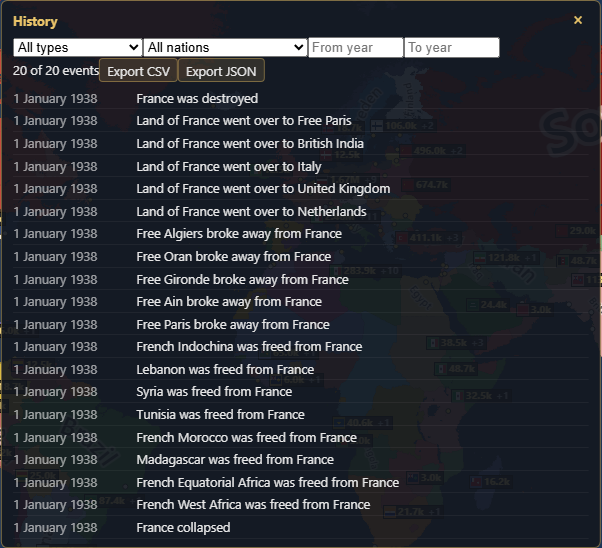
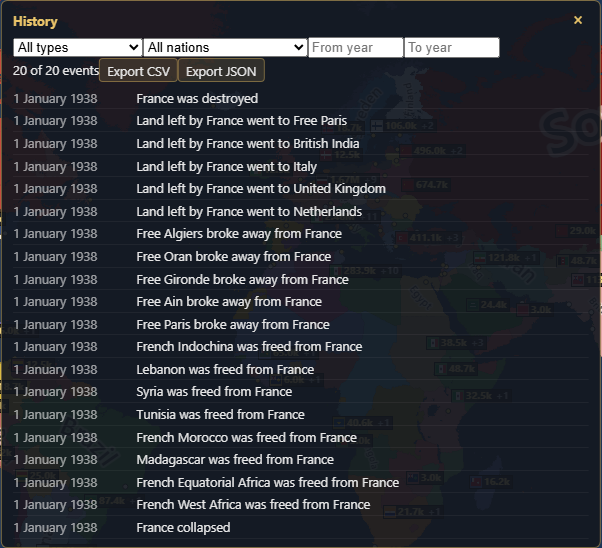
PLAN 3.12b2: land that goes over has two sentences and one row an hour (ADR-210)
"Land of X went over to Y" was one sentence for land that rose and went
back to its core nation and for what a dead nation left, with a row for
every area of a month. The worker now tells the two from the log (a
death of the holder in the same hour, read before the rows) and leaves
out a LandCeded with the tick, a and b of an earlier one.

Ten years of seeds 1, 2 and 3: 252, 293 and 354 events as 216, 252 and
290 rows. No state changed: the pin is unmoved.

Claude-Session: https://claude.ai/code/session_01LqAeMMuHgtMHVk2ZeZyuK6

Changed region(s): [[0.2691, 0.1861, 0.6578, 0.4033]]

diff --git a/src/worker/historyRows.ts b/src/worker/historyRows.ts
@@ -8,6 +8,12 @@
  * holder it takes land from, before its `NationRevived`) and for rebels that an area next to them
  * rises to: "Turkey broke away from Free Bursa" was the second. Told from the log alone: the
  * state is not asked, so a game saved before reads the same.
+ *
+ * `LandCeded` is two things (PLAN 3.12b2): land that rose and went back to its core nation, whose
+ * holder lives, and what a nation that died in that hour left ('left'). Its death is told before
+ * the land by a collapse and an annexation and after it by `eliminateNation`, so the deaths are
+ * read first. The rows of one hour with the same a and b are one row, the first: they are one
+ * month's revolts, an area each, and a death's land given at more than one step of it.
  */
 import { EventKind } from '../shared/events';
 import { HISTORY_ROLES, type HistoryAs, type HistoryRole, type HistoryRow } from '../shared/history';
@@ -16,6 +22,9 @@ import type { World } from '../sim/world';
 
 /** More than any nation id: a tick and a nation as one key. */
 const NATION_KEY = 65536;
+
+/** The kinds that tell a nation's death (a = the dead). */
+const DEATHS: ReadonlySet<number> = new Set([EventKind.NationEliminated, EventKind.NationCollapsed, EventKind.NationAnnexed]);
 
 /**
  * `nationName` gives a nation's name (an i18n key or '=' + literal), `cityName` a city row's
@@ -43,6 +52,12 @@ export function historyRows(world: World, nationName: (id: number) => string, ci
   /** tick * NATION_KEY + nation of every `NationRevived`: it follows the revolts of its hour. */
   const revived = new Set<number>();
   for (let i = 0; i < rows.length; i += HISTORY_STRIDE) if (rows[i + 1] === EventKind.NationRevived) revived.add(rows[i]! * NATION_KEY + rows[i + 2]!);
+  /** tick * NATION_KEY + nation of every death. */
+  const died = new Set<number>();
+  for (let i = 0; i < rows.length; i += HISTORY_STRIDE) if (DEATHS.has(rows[i + 1]!)) died.add(rows[i]! * NATION_KEY + rows[i + 2]!);
+  /** The (a, b) of the `LandCeded` rows of the hour `cededAt`, as a * NATION_KEY + b. */
+  const ceded = new Set<number>();
+  let cededAt = -1;
   /** The nations a revolt founded or brought back that have not died since. */
   const risen = new Set<number>();
   const revoltAs = (tick: number, a: number): HistoryAs | undefined => {
@@ -53,12 +68,18 @@ export function historyRows(world: World, nationName: (id: number) => string, ci
   const out: HistoryRow[] = [];
   for (let i = 0; i < rows.length; i += HISTORY_STRIDE) {
     const [tick, kind, a, b, x, y] = [rows[i]!, rows[i + 1]!, rows[i + 2]!, rows[i + 3]!, rows[i + 4]!, rows[i + 5]!];
+    if (kind === EventKind.LandCeded) {
+      if (tick !== cededAt) ceded.clear();
+      cededAt = tick;
+      if (ceded.has(a * NATION_KEY + b)) continue;
+      ceded.add(a * NATION_KEY + b);
+    }
     const [ra, rb] = HISTORY_ROLES[kind] ?? ['number', 'number'];
     if (kind === EventKind.MajorBattleStarted) battleCity.set(a, city(b));
     const al = alliances.get(ra === 'alliance' ? a : rb === 'alliance' ? b : 0);
     const row: HistoryRow = { tick, kind, a, b, x: Number.isNaN(x) ? null : x, y: Number.isNaN(y) ? null : y, an: name(ra, a), bn: name(rb, b), of: al ? nation(al.founder) : '' };
     if (kind === EventKind.NationEliminated) risen.delete(a);
-    const as = kind === EventKind.RevoltSpawned ? revoltAs(tick, a) : undefined;
+    const as = kind === EventKind.RevoltSpawned ? revoltAs(tick, a) : kind === EventKind.LandCeded && died.has(tick * NATION_KEY + b) ? 'left' : undefined;
     if (as) row.as = as;
     out.push(row);
   }

diff --git a/tests/unit/history.test.ts b/tests/unit/history.test.ts
@@ -176,6 +176,44 @@ describe('history rows name what they are of (PLAN 3.12a)', () => {
     expect(rows.map(historyText).slice(3, 6)).toEqual(['N2 took back land held by N3', 'N2 took back land held by N1', 'N2 returned']);
   });
 
+  // PLAN 3.12b2: 450 of the critic's 2,395 rows read "Land of X went over to Y".
+  it('land that goes over went back to its core nation, or was left by a nation that died', () => {
+    const ceded = (as?: HistoryRow['as']): HistoryRow => ({ ...row(EventKind.LandCeded, 'nation.POL', 'nation.GER'), ...(as ? { as } : {}) });
+    expect(historyText(ceded())).toBe('Land held by Germany rose and went back to Poland');
+    expect(historyText(ceded('left'))).toBe('Land left by Germany went to Poland');
+  });
+
+  it('the rows of a log: land left by the dead, whichever side of it the death is told, and one row an hour for two nations', () => {
+    const s = new Sim({ scenario: 'toy', seed: 1 });
+    const h = s.world.history;
+    const [A, B, C, D] = [1, 2, s.world.nations.create(), s.world.nations.create()]; // the toy world has two
+    h.record(10, EventKind.LandCeded, A, B, 1, 1); // three areas rise in one month: two go back to A,
+    h.record(10, EventKind.LandCeded, C, B, 2, 2); // one to C,
+    h.record(10, EventKind.LandCeded, A, B, 3, 3);
+    h.record(10, EventKind.LandCeded, B, A, 4, 4); // and one of A's to B: not the same two
+    h.record(20, EventKind.LandCeded, A, B, 5, 5); // a later hour: a row again
+    h.record(30, EventKind.NationCollapsed, B, 0, NaN, NaN); // a collapse: told before the land,
+    h.record(30, EventKind.LandCeded, A, B, 6, 6);
+    h.record(30, EventKind.LandCeded, A, B, 7, 7); // twice (the stray cells, then what A occupied)
+    h.record(30, EventKind.NationEliminated, B, 0, NaN, NaN);
+    h.record(40, EventKind.LandCeded, A, C, 8, 8); // a death by itself: told after the land
+    h.record(40, EventKind.NationEliminated, C, 0, NaN, NaN);
+    h.record(50, EventKind.NationAnnexed, D, A, NaN, NaN); // an annexation
+    h.record(50, EventKind.LandCeded, B, D, 9, 9);
+    h.record(50, EventKind.NationEliminated, D, 0, NaN, NaN);
+    h.record(60, EventKind.LandCeded, A, B, 10, 10); // the dead of an earlier hour: B lives again
+    const rows = historyRows(s.world, (n) => `=N${n}`, () => '');
+    const ceded = rows.filter((r) => r.kind === EventKind.LandCeded);
+    expect(ceded.map((r) => [r.tick, r.a, r.b, r.x, r.as])).toEqual([
+      [10, A, B, 1, undefined], [10, C, B, 2, undefined], [10, B, A, 4, undefined], [20, A, B, 5, undefined],
+      [30, A, B, 6, 'left'], [40, A, C, 8, 'left'], [50, B, D, 9, 'left'], [60, A, B, 10, undefined],
+    ]);
+    // No other row is folded or is `as` anything: the two of B's death are both there.
+    expect(rows.length).toBe(h.rows.length / HISTORY_STRIDE - 2);
+    expect(rows.filter((r) => r.kind !== EventKind.LandCeded).every((r) => r.as === undefined)).toBe(true);
+    expect(rows.filter((r) => r.tick === 30).map(historyText)).toEqual(['N2 collapsed', 'Land left by N2 went to N1', 'N2 was destroyed']);
+  });
+
   it('a save from before it loads: the leader stands for the founder, and nothing is past', () => {
     const s = new Sim({ scenario: '1938', seed: 1, assets: assets1938(W) });
     const al = s.world.alliances;

diff --git a/tests/helpers/aiSweep.ts b/tests/helpers/aiSweep.ts
@@ -54,6 +54,10 @@ export function aiSweep(seed: number): void {
   const alive = new Set<number>();
   nations.forEach((n) => void (nations.cols.living[n] === 1 && alive.add(n)));
   const revoltsAs: string[] = [];
+  // PLAN 3.12b2: the land that went over, one line for two nations in an hour, and whether its
+  // holder was dead as the hour ended.
+  const cededAs: string[] = [];
+  let cededEvents = 0;
   for (let y = 0; y < 10; y++) {
     if (y === 9) saved = s.save();
     const year: Record<string, number> = {};
@@ -63,6 +67,12 @@ export function aiSweep(seed: number): void {
         const k = names[ev[i + 1]!]!;
         counts[k] = (counts[k] ?? 0) + 1;
         year[k] = (year[k] ?? 0) + 1;
+        if (ev[i + 1] === EventKind.LandCeded) {
+          cededEvents++;
+          const [to, from] = [ev[i + 2]!, ev[i + 3]!];
+          const line = `${ev[i]!} ${to} ${from} ${w.nations.cols.living[from] === 1 ? 'back' : 'left'}`;
+          if (!cededAs.includes(line)) cededAs.push(line);
+        }
         if (ev[i + 1] !== EventKind.RevoltSpawned) continue;
         const a = ev[i + 2]!;
         const back = ev.some((v, j) => j % 6 === 1 && v === EventKind.NationRevived && ev[j + 1] === a);
@@ -144,6 +154,15 @@ export function aiSweep(seed: number): void {
   for (const as of ['founded', 'joined']) expect(of(as), `seed ${seed}: revolts ${as}`).toBeGreaterThan(0);
   console.log(`seed ${seed}: ${revoltRows.length} revolts: ${of('founded')} founded, ${of('joined')} joined, ${of('revived')} revived`);
   console.log(`seed ${seed}: ${rows.length} history rows, ${allianceRows} of alliances (${rows.filter((r) => r.kind === EventKind.AllianceDissolved).length} dissolved), none with an id`);
+  // PLAN 3.12b2: each row of land that went over is of what the state showed, an hour's rows of
+  // two nations are one, and only the land of the dead was "left".
+  const cededRows = rows.filter((r) => r.kind === EventKind.LandCeded);
+  expect(cededRows.map((r) => `${r.tick} ${r.a} ${r.b} ${r.as ?? 'back'}`), `seed ${seed}: what the rows of land that went over are of`).toEqual(cededAs);
+  for (const r of cededRows) expect(historyText(r), `seed ${seed}, tick ${r.tick} (${r.as ?? 'back'})`).toMatch(r.as === 'left' ? /^Land left by \S.* went to \S/ : /^Land held by \S.* rose and went back to \S/);
+  const cededOf = (as: string): number => cededAs.filter((l) => l.endsWith(as)).length;
+  for (const as of ['back', 'left']) expect(cededOf(as), `seed ${seed}: land that went over, ${as}`).toBeGreaterThan(0);
+  expect(cededRows.length, `seed ${seed}: rows of land that went over, of ${cededEvents} events`).toBeLessThanOrEqual(cededEvents);
+  console.log(`seed ${seed}: ${cededEvents} events of land that went over, ${cededRows.length} rows: ${cededOf('back')} back to its core nation, ${cededOf('left')} left by the dead`);
   const wars = counts['WarDeclared'] ?? 0;
   const peace = counts['PeaceSigned'] ?? 0;
   const alliance = (counts['AllianceJoined'] ?? 0) + (counts['AllianceLeft'] ?? 0) + (counts['AllianceDissolved'] ?? 0);

diff --git a/src/shared/history.ts b/src/shared/history.ts
@@ -55,12 +55,14 @@ export interface HistoryRow {
   /**
    * What the row is of, where its kind has more than one sentence (PLAN 3.12b; absent: the
    * kind's own). A `RevoltSpawned` is 'revived' when its a is a dead nation that returned in that
-   * hour, and 'joined' when a was a nation of rebels already and the land rose to it.
+   * hour, and 'joined' when a was a nation of rebels already and the land rose to it. A
+   * `LandCeded` is 'left' when its b died in that hour (PLAN 3.12b2); its own sentence is of
+   * land that rose and went back to its core nation.
    */
   as?: HistoryAs;
 }
 
-export type HistoryAs = 'revived' | 'joined';
+export type HistoryAs = 'revived' | 'joined' | 'left';
 
 export interface HistoryFilter {
   /** Event kind (null = all). */

diff --git a/tests/e2e/godUi1938.spec.ts b/tests/e2e/godUi1938.spec.ts
@@ -194,7 +194,7 @@ test('Kill through the God tab: a few new nations, no new war', async ({ page },
   await page.getByTestId('history-kind').selectOption({ label: 'Land handed over' });
   await expect(page.getByTestId('history-row')).toHaveCount(ceded.length);
   const texts = await page.getByTestId('history-row').allInnerTexts();
-  for (const t of texts) expect(t).toMatch(/Land of France went over to \S/);
+  for (const t of texts) expect(t).toMatch(/Land left by France went to \S/);
   await page.getByTestId('history-kind').selectOption({ label: 'Revolt' });
   await expect(page.getByTestId('history-row')).toHaveCount(born.length);
   for (const t of await page.getByTestId('history-row').allInnerTexts()) expect(t).toMatch(/^.*Free .+ broke away from France$/s);

diff --git a/docs/PARITY.md b/docs/PARITY.md
@@ -76,7 +76,7 @@ by `npm run parity -- --write`; never hand-edit it. `npm run parity` fails if it
 | 58 | Map mode hotkeys | F1–F6 switch map modes [TEXT 2026-10-02] | Number/F-key shortcuts | not started |  |  |
 | 59 | Statistics | Ranked bar lists: size, age, alliances, income, city revolts, flags, kills, total wars, cities; dead nations marked [TEXT+VISUAL 2026-10-02] | Statistics panel incl. military size (Phase 1 UI) | partial | `tests/e2e/ranking1938.spec.ts`, `tests/unit/ranking.test.ts`, `docs/evidence/1.31/ui-shell.png`, `tests/unit/stats.test.ts`, `tests/e2e/charts1938.spec.ts`, `docs/evidence/1.34/charts.png`, `tests/unit/landArea.test.ts` | Baseline: "statistics (incl. military size)". 2026-10-02 (PLAN 1.31b): right-hand ranking (top 15) by land, army, income, treasury or manpower; rows select; Statistics button toggles; metric and visibility persisted. Missing: age, alliances, revolts, kills, wars, cities metrics; bar lists; dead nations Charts (PLAN 1.34b): monthly saved series (land, income, treasury, army men, casualties) as SVG lines for the top 5 + selected nation. 2026-10-03 (PLAN 1.42d, ADR-52): the land ranking is in km² of true area, not cells of the Miller map (Soviet Union 21.2 M km²; Denmark with Greenland leaves the top ten). The land chart series still records cells (PLAN 1.42d2). 2026-10-03 (PLAN 1.42d2): the land chart series records km² too; a save whose series counted cells starts an empty series. |
 | 60 | Nation view | Nation panel: flag, age, previous lives, wars, diplomacy list, puppets, economy tab [TEXT+VISUAL 2026-10-02] | Nation panel | partial | `tests/e2e/nationPanel1938.spec.ts`, `docs/evidence/1.31/panel-overview.png`, `docs/evidence/1.31/panel-economy.png`, `tests/unit/landArea.test.ts` | 2026-10-02 (PLAN 1.31a): click a nation → panel with Overview (land, army, CE, alliance unity/loyalty, overlord with autonomy/loyalty/integration, puppets, enemies as clickable chips) and Economy (income, expenses, balance, treasury, bonus, manpower, bankrupt). Missing: flag, age, previous lives, diplomacy actions. 2026-10-03 (PLAN 1.42d, ADR-52): land is shown in km² with the nation's share of the world's owned land (Germany 468,102 km², 0.4%). |
-| 61 | History log | Full history panel (v3.3.2): every event, filter by type, text search, optional in saves; export to a text file; grouped by year [TEXT 2026-10-02] | Filterable, exportable history log (Phase 1) | partial | `tests/e2e/history1938.spec.ts`, `tests/unit/history.test.ts`, `docs/evidence/1.34/history.png`, `tests/e2e/godUi1938.spec.ts`, `docs/evidence/2.15/kill-france-history.png`, `docs/evidence/3.12/a-history-dissolved.png`, `docs/evidence/3.12/b1-history-returned.png` | Baseline: "history log … filterable and exportable". 2026-10-02 (PLAN 1.34a): every historic event (wars, peace, battles, captures, revolts, collapses, revivals, alliances, puppets, bankruptcy) saved in the world; History panel newest first, filters by type, nation and year range; CSV and JSON export of the filtered rows. Missing: text search, grouping by year. 2026-10-05 (PLAN 2.15d, ADR-102): land that goes back to its core nation, or to a neighbour in a Kill, is logged as "Land of B went over to A" (type "Land handed over", with its filter), not as a revolt; it read "France broke away from Italy". 2026-10-08 (PLAN 3.12a, ADR-208; the critic's R3-B6: "#43 dissolved", "Denmark left #43"): no row shows an id. An alliance has its name after it dissolved too, a made one with its founder ("Norway left the Defensive Pact of Sweden", "The Baltic Entente was dissolved"), a Major Battle the city it began near (`tests/helpers/aiSweep.ts`: ten years of three seeds, no row with an id; `docs/evidence/3.12/a-history-dissolved.png`). 2026-10-08 (PLAN 3.12b1, ADR-209; the critic's "Turkey broke away from Free Bursa"): a revolt's row says which of three things it was: a nation founded "broke away", a dead one that returns "took back land held by" its holder, and land that rises to rebels already there "rose and joined" them (`tests/helpers/aiSweep.ts`: each revolt's row of ten years of three seeds against the state; `docs/evidence/3.12/b1-history-returned.png`). Missing still: text search, grouping by year, a ticker (PLAN 3.12c). |
+| 61 | History log | Full history panel (v3.3.2): every event, filter by type, text search, optional in saves; export to a text file; grouped by year [TEXT 2026-10-02] | Filterable, exportable history log (Phase 1) | partial | `tests/e2e/history1938.spec.ts`, `tests/unit/history.test.ts`, `docs/evidence/1.34/history.png`, `tests/e2e/godUi1938.spec.ts`, `docs/evidence/2.15/kill-france-history.png`, `docs/evidence/3.12/a-history-dissolved.png`, `docs/evidence/3.12/b1-history-returned.png` | Baseline: "history log … filterable and exportable". 2026-10-02 (PLAN 1.34a): every historic event (wars, peace, battles, captures, revolts, collapses, revivals, alliances, puppets, bankruptcy) saved in the world; History panel newest first, filters by type, nation and year range; CSV and JSON export of the filtered rows. Missing: text search, grouping by year. 2026-10-05 (PLAN 2.15d, ADR-102): land that goes back to its core nation, or to a neighbour in a Kill, is logged as "Land of B went over to A" (type "Land handed over", with its filter), not as a revolt; it read "France broke away from Italy". 2026-10-08 (PLAN 3.12a, ADR-208; the critic's R3-B6: "#43 dissolved", "Denmark left #43"): no row shows an id. An alliance has its name after it dissolved too, a made one with its founder ("Norway left the Defensive Pact of Sweden", "The Baltic Entente was dissolved"), a Major Battle the city it began near (`tests/helpers/aiSweep.ts`: ten years of three seeds, no row with an id; `docs/evidence/3.12/a-history-dissolved.png`). 2026-10-08 (PLAN 3.12b1, ADR-209; the critic's "Turkey broke away from Free Bursa"): a revolt's row says which of three things it was: a nation founded "broke away", a dead one that returns "took back land held by" its holder, and land that rises to rebels already there "rose and joined" them (`tests/helpers/aiSweep.ts`: each revolt's row of ten years of three seeds against the state; `docs/evidence/3.12/b1-history-returned.png`). 2026-10-08 (PLAN 3.12b2, ADR-210; the critic's 450 "Land of X went over to Y" of 2,395 rows): land that goes over is "Land held by B rose and went back to A", or "Land left by B went to A" when B died in that hour, and an hour's events of the same two nations are one row (ten years of three seeds: 252, 293 and 354 events as 216, 252 and 290 rows; `tests/helpers/aiSweep.ts`, each row against the state; `docs/evidence/2.15/kill-france-history.png`). The rows that are left, about 22 a year, are land that changed hands. Missing still: text search, grouping by year, a ticker (PLAN 3.12c). |
 | 62 | Event popups | Colour-chipped clickable nation names in event popups ("X was conquered by Y"); per-type filters saved [TEXT+VISUAL 2026-10-02] | Event feed with nation chips and filters | not started |  |  |
 | 63 | Camera controls | Arrow keys, numpad +/−, Q/E zoom, middle-mouse drag, wheel, zoom sensitivity; touch on mobile [TEXT 2026-10-02] | Keyboard/drag/wheel/touch-pinch camera (PLAN 0.17) | partial | `tests/e2e/camera.spec.ts`, `tests/unit/camera.test.ts`, `tests/e2e/editorDrag1938.spec.ts` | Baseline: "pan/zoom with keyboard, drag and touch". Phase 0: arrows/WASD, E/Q, +/−, numpad, wheel at cursor, drag, touch pinch, continuous zoom. Missing: zoom-sensitivity setting. PLAN 1.44 (2026-10-04): the right button pans too, and while the editor's brush or line is active the left button paints instead of panning. |
 | 64 | Speed and pause | Speed up to 5× plus pause; 1 month per 0.5 s at 1×; optional days timescale [TEXT+VISUAL 2026-10-02] | Speeds up to max + pause, persisted (PLAN 1.8) | partial | `tests/e2e/speed.spec.ts`, `tests/unit/calendar.test.ts`, `docs/evidence/1.8/bottom-bar-paused.png` | Baseline: "speeds up to max plus pause (persisted)". 2026-10-02 (PLAN 1.8): 8 speed levels + Max, pause, both persisted; Gregorian date in the bottom bar. Deviation (ADR-21): finer, slower fixed levels (hourly ticks); AoC pace (≈1 month/0.5 s) only at Max, to be confirmed on the 1938 world in Phase 7 |

diff --git a/DECISIONS.md b/DECISIONS.md
@@ -167,6 +167,54 @@ level directly; hillshade at higher zoom adds procedural detail (SPEC §8 T2/T3)
 runtime. Regenerating assets is idempotent (`npm run data -- --check` fails on drift), and
 `tests/unit/data-manifest.test.ts` verifies sha256, sizes, known places and pyramid consistency.
 
+### ADR-210 · 2026-10-08 · accepted — Land that goes over: two sentences, and one row an hour for two nations (PLAN 3.12b2, critic R3-B6)
+
+- **Context.** The critic's third report: 450 of 2,395 history rows after 14 years read
+  "Land of X went over to Y". PLAN 3.12 had "the land that goes over at a peace folded into
+  that peace's row". ADR-209 measured that no `LandCeded` follows a peace of its two nations
+  (0 of 337 on seed 6021, 0 of 252 on seed 1): a peace moves the owner of land with no
+  event. `LandCeded` (a = who has the land now, b = who held it) is emitted in four places:
+  1. `defect`, a region that rose and went back to its core nation: b lives.
+  2. `collapseNation`, the stray cells of a nation that falls apart, to the holder of their
+     province: after its `NationCollapsed`.
+  3. `leaveToNeighbour`, a Kill that found no heir.
+  4. `leaveLand` in `eliminateNation`, what a living nation occupied of the dead: before
+     its `NationEliminated`.
+- **Decision.** In `src/worker/historyRows.ts`, from the log alone, as ADR-209 did:
+  - a `LandCeded` whose b has a `NationEliminated`, `NationCollapsed` or `NationAnnexed` in
+    the same hour is `as: 'left'`: "Land left by {b} went to {a}". The deaths are read
+    before the rows, since 2 has its death before the land and 4 after it;
+  - the kind's own sentence is now of 1: "Land held by {b} rose and went back to {a}";
+  - a `LandCeded` with the tick, a and b of an earlier one is no row. The row that stays
+    is the first, with its place.
+- **Why one hour.** ADR-209's count: no row has the a and b of an earlier hour of its
+  month. The revolts of a month are of its first hour, an area each, and a death gives
+  its land at two steps of one hour (2 and 4).
+- **Why the fold has no count** ("three regions"). The log has an event for each area that
+  rose, and an area is as many provinces as rose side by side: a count of events is not a
+  count of anything a watcher sees.
+- **Measured** (`tests/helpers/aiSweep.ts`, ten years; the state as each hour ended against
+  the rows). Seed 1: 252 events, 216 rows, 190 back to the core nation and 26 left by the
+  dead. Seed 2: 293, 252, 224 and 28. Seed 3: 354, 290, 265 and 25. A test of mine failed
+  first on its own fault (`includes(x, length - 64)` with fewer than 64 lines looks at the
+  last ones only); the hour it failed on, seed 3's tick 29,928, has three events of
+  land held by the Soviet Union going back to Italy with a fourth of other nations between
+  the second and the third: the rows to fold are not always next to one another.
+- **What it leaves.** About 22 rows a year of land going back to its core nation (190 in
+  seed 1's ten years, about a tenth of its rows: 1,813 before the fold, ADR-208). They are
+  not the log's to drop: each is land that changed hands, with a place. That the same two
+  nations hand land back month after month (the Soviet Union's to Italy in five months
+  running of seed 3, ticks 29,184 to 32,136; why Italy has cores there was not looked
+  into) is the game's, and a line for the review pass.
+- **Not done.** A region that goes back to its core nation in the hour of its holder's
+  death reads as left by the dead; not looked for. The pin is unmoved (no state changed).
+  No migration: a game saved before reads the new sentences.
+- **Seen.** `docs/evidence/2.15/kill-france-history.png` (God Mode kills France): five
+  rows "Land left by France went to Free Paris", "… British India", "… Italy", "… United
+  Kingdom", "… Netherlands" between "France collapsed" and "France was destroyed". The
+  sentence of land that went back was not looked at in the panel: the unit test and the
+  ten-year tests have it.
+
 ### ADR-209 · 2026-10-08 · accepted — A revolt's row says which of three things it was, told by the worker from the log (PLAN 3.12b1, critic R3-B6)
 
 - **Context.** The critic's third report: "Turkey broke away from Free Bursa", a row that

diff --git a/PROGRESS.md b/PROGRESS.md
@@ -11502,3 +11502,39 @@ No rule changed and nothing on screen changed. One task came out of it.
   2,395) is not less: PLAN 3.12b2 folds an hour's and says what it leaves.
 - **Gate:** `npm run check` (code; a part: the changed spec file).
 - **Next:** PLAN 3.12b2.
+
+## 2026-10-08 — PLAN 3.12b2: land that goes over has two sentences and one row an hour (ADR-210)
+
+- **Start of the iteration:** `npm run check` on the clean tree: green. `npm run
+  critic:due`: not due.
+- **Cause.** One sentence, "Land of {b} went over to {a}", for land that rose and went back
+  to its core nation and for what a dead nation left; and a row for every area of a month.
+- **Done:** `HistoryAs` gains `'left'`; `src/worker/historyRows.ts` reads the deaths of the
+  log first (a collapse tells the death before the land, `eliminateNation` after it), sets
+  `as` and leaves out a `LandCeded` with the tick, a and b of an earlier one; `en.json`:
+  "Land held by {b} rose and went back to {a}", "Land left by {b} went to {a}". SPEC §
+  "Land handed over".
+- **Tests:** `tests/unit/history.test.ts` (14, two new: the two sentences; a log with a
+  month's areas, a collapse, a death by itself, an annexation, and the dead of an earlier
+  hour); `tests/helpers/aiSweep.ts`: every `LandCeded` of ten years classed by whether its
+  holder lived as the hour ended, one line for two nations an hour, equal to the worker's
+  rows one for one, each sentence matched, at least one of each a seed;
+  `tests/e2e/godUi1938.spec.ts`: the Kill's rows read "Land left by France went to".
+- **Run by hand** (a part, ADR-87): `godUi1938` and `history1938`, `--project chromium`, 10
+  tests, green; the Kill again with `EVIDENCE=1`. The three ten-year tests with the sweep's
+  config: green on the second run.
+- **Figures** (ten years): seed 1, 252 events as 216 rows (190 back, 26 left by the dead);
+  seed 2, 293 as 252 (224, 28); seed 3, 354 as 290 (265, 25).
+- **Seen:** `docs/evidence/2.15/kill-france-history.png`, looked at: 20 rows of 1 January
+  1938, five "Land left by France went to …" between "France collapsed" and "France was
+  destroyed". The sentence of land that went back was not looked at in the panel.
+- **The pin:** unmoved (no state changed).
+- **Learned:** `array.includes(x, from)` with a negative `from` counts from the end: my
+  test's "the last 64 lines" looked at one line while it had 63, and failed on seed 3
+  after 150 s. The rows to fold are not next to one another (seed 3, tick 29,928). The
+  sweep's config prints no `console.log`; `process.stderr.write` shows (taken out again).
+- **Performance:** not measured: one more pass over the log for each history request.
+- **Not done:** no sweep (ADR-58). About 22 rows a year of land going back stay: a line
+  under PLAN 3.12 for the review pass (balance, Phase 7).
+- **Gate:** `npm run check` (code; a part: the changed spec file).
+- **Next:** PLAN 3.12c.

diff --git a/PLAN.md b/PLAN.md
@@ -5218,7 +5218,12 @@ quick sweep as a smoke test.
       and joined Free Barcelona", and "broke away" for a founding only. No state changed:
       the pin is unmoved. `tests/helpers/aiSweep.ts`: each revolt's row of ten years is of
       what the state showed.
-    - [ ] 3.12b2 The land that goes over. Measured in 3.12b1 (ADR-209): no `LandCeded`
+    - [x] 3.12b2 *Done 2026-10-08 (ADR-210):* two sentences ("Land held by Germany rose and
+      went back to Poland"; "Land left by France went to Italy" when the holder died in that
+      hour, told by the worker from the log) and one row for an hour's events of the same two
+      nations (ten years of seeds 1, 2 and 3: 252, 293 and 354 events as 216, 252 and 290
+      rows). The pin is unmoved. `tests/helpers/aiSweep.ts`: each row against the state.
+      The task as it was set: The land that goes over. Measured in 3.12b1 (ADR-209): no `LandCeded`
       follows a peace of its two nations (0 of 337 on seed 6021, 0 of 252 on seed 1), so
       nothing is to be folded into a peace's row. 281 and 12 of the 337 are a region that
       rose and went back to its core nation, whose holder lives; 44 are what a dead nation
@@ -5237,7 +5242,12 @@ quick sweep as a smoke test.
   aiSweep.ts` asks that a founded nation's name not match `/^Free state d+$/`, a `\d` that
   lost its backslash; 29 alliances were gone after ten years of seed 1 and 15 rows said so
   (a nation's death takes it out of its alliance with no row); "Mexico joined the Coalition
-  of Mexico" is the founder's own row.
+  of Mexico" is the founder's own row. And from 3.12b2 (ADR-210): about 22 history rows a
+  year are land that rose and went back to its core nation (190 in seed 1's ten years,
+  about a tenth of its rows), the same two nations month after month (land held by the
+  Soviet Union to Italy in five months running of seed 3, ticks 29,184 to 32,136; why Italy
+  has cores there was not looked into). That is the game's and not the log's: whether a holder should lose a region a month
+  to a living core nation is balance (Phase 7, ADR-58), and no row was dropped for it.
   **PLAN 3.8 to 3.12 are the critic's third report (ADR-177).** They are numbered tasks and
   count toward the next review pass. Their order is not the critic's (R3-B4, B2, B5, B3,
   B6): the three that change the world's state or its cost come before the two whose tests

diff --git a/SPEC.md b/SPEC.md
@@ -1052,9 +1052,11 @@ items take days and draw gold, industry and manpower. Upkeep runs monthly.
     joins that state. Only otherwise does it found a new nation.
   - *Land handed over (PLAN 2.15d, ADR-102):* a defection, and each handover of a God Kill, is
     the event `LandCeded` (a = who received the land, b = who held it), as is the land of a
-    dead nation that goes to its occupier (ADR-112), not a revolt: "Land of
-    {b} went over to {a}" in the history. An area that joins a rebel state stays a
-    `RevoltSpawned`.
+    dead nation that goes to its occupier (ADR-112), not a revolt. An area that joins a rebel
+    state stays a `RevoltSpawned`. In the history (PLAN 3.12b2, ADR-210) it is "Land held by
+    {b} rose and went back to {a}", or "Land left by {b} went to {a}" when b died in that
+    hour, and the events of one hour with the same a and b are one row: the worker tells
+    both from the log (`src/worker/historyRows.ts`).
   - *Overextension (ADR-47):* a holder above 4% of the world's owned land gains, in provinces
     more than 80 cells from its capital, 1.25 × min(2, share/4% − 1) unrest a month, plus 2 on
     core land while one of its wars has exhausted its side to ≥ 60. The share is of km², not
